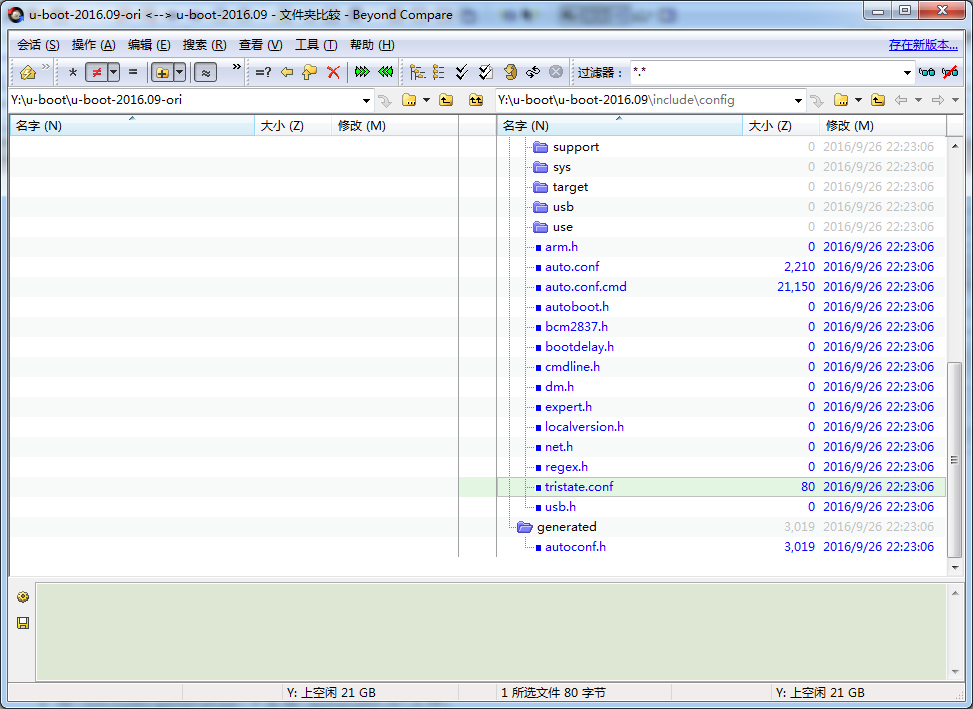
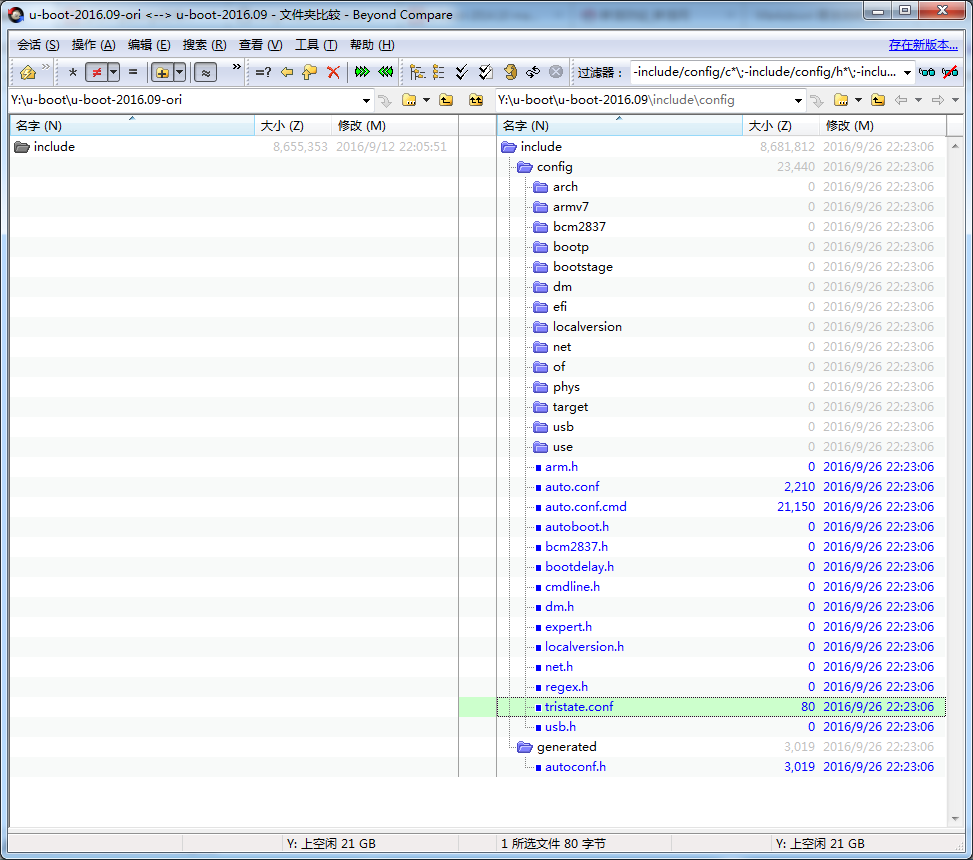
update images for make tool conf

diff --git a/u-boot/u-boot-2016.09 make工具之conf.md b/u-boot/u-boot-2016.09 make工具之conf.md
@@ -66,7 +66,8 @@ include/config/%.conf: $(KCONFIG_CONFIG) include/config/auto.conf.cmd
 scripts/kconfig/conf  --defconfig=arch/../configs/rpi_3_32b_defconfig Kconfig
 ```
 去生成根目录下的`.config`文件。
-
+以下是生成前后的对比：
+![make rpi_3_32b_defconfig 文件变化对比](https://github.com/guyongqiangx/blog/blob/dev/u-boot/make-tool-images-conf/make-rpi_3_32b_defconfig.png?raw=true)
 
 ###2.2 `make`编译过程调用
 `u-boot`完成后，执行`make`命令开始编译时，会检查`.config`是否比`include/config/auto.conf`更新，规则如下：
@@ -123,6 +124,9 @@ scripts/kconfig/conf  --silentoldconfig Kconfig
 
 + 在`include/config`下生成`auto.conf`和`auto.conf.cmd`，以及`tristate.conf`；
 + 在`include/generated`下生成`autoconf.h`文件；
+
+先执行`make rpi_3_32b_defconfig`，在执行`make silentoldconfig`的对比结果如下：
+![make silentoldconfig后的文件变化](https://github.com/guyongqiangx/blog/blob/dev/u-boot/make-tool-images-conf/make-silentoldconfig.png?raw=true)
 
 ###2.3 调用简述
 简而言之：
